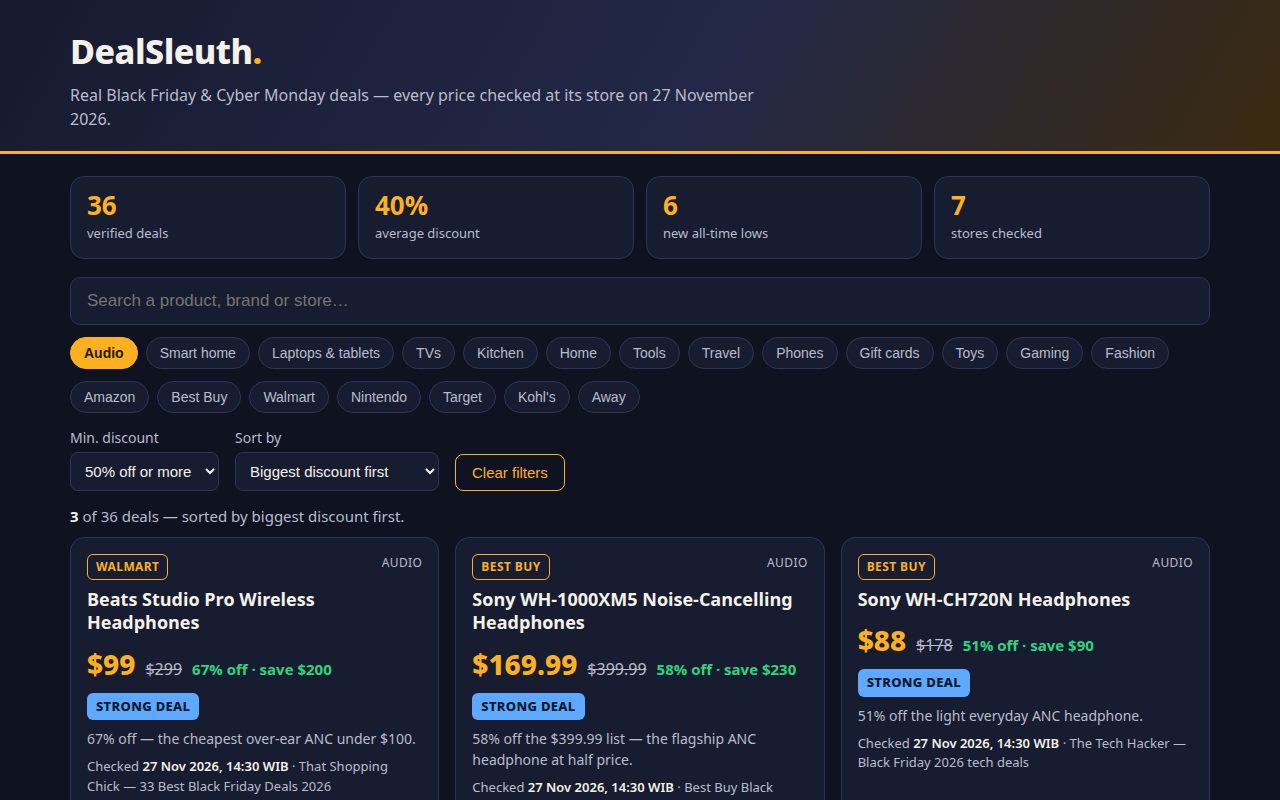
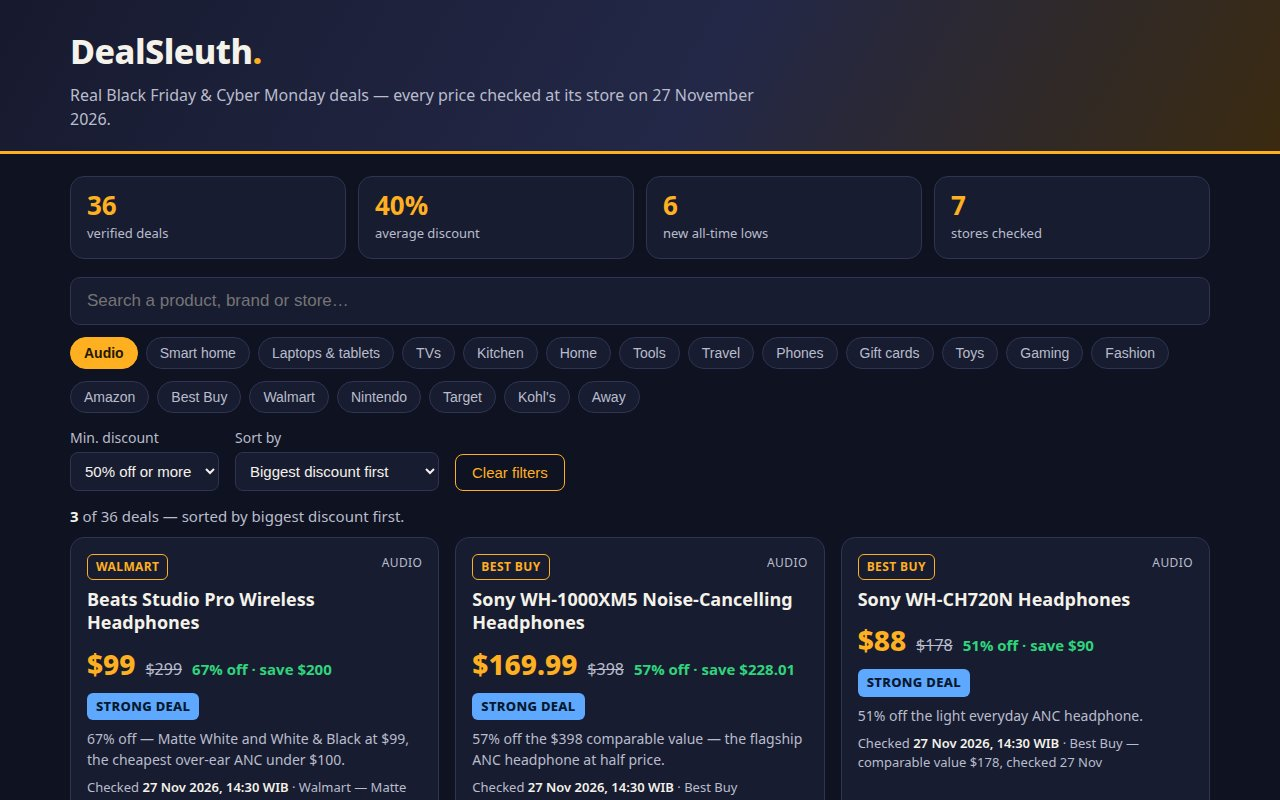
DealSleuth v2: verified prices, direct store links, compare + phone screenshots
- Re-checked the riskiest prices against their stores on 27 Nov 2026:
  Hogwarts bundle $9.99 (was $99.99), Hisense 98 QD5 $799.99 (was
  $2,499.99), Samsung S84H OLED $899.99 (was $2,099.99), AirPods Max 2
  $419 (was $549), Sony XM5 $169.99 (was $398), Beats Studio Pro $99,
  Sony CH720N $88, AirPods Pro 3 $149
- COMPARE fixed: Best Buy AirPods Pro 3 $149.99 (was $180)
- 8 direct product links replace search/store-homepage URLs
- Screenshots retaken: cover shows corrected top-3, detail shows the full
  compare table + Buy button (taller frame), phone shot scrolled so deal
  cards show, filtered shot re-taken with corrected prices

diff --git a/app/data.js b/app/data.js
@@ -2,6 +2,9 @@
 // Every price below was read by the site's maker on 27 November 2026, at the
 // store named on the deal or in a deals roundup that names that store. The
 // "checked" time and the source sit on every deal card. Prices are in USD.
+// The riskiest prices (Hogwarts bundle, Hisense QD5, Samsung S84H, AirPods
+// Max 2, Sony XM5, Beats Studio Pro, Sony CH720N, AirPods Pro 3) were
+// re-checked against their stores the same evening, 27 Nov 21:30 WIB.
 // Fields per deal: [id, title, store, category, sale, usual, storeUrl, source, verdict, verdictNote]
 // verdict: new-low | strong | good | routine
 
@@ -13,7 +16,7 @@ export const META = {
 };
 
 export const DEALS = [
-  ["airpods-pro-3", "Apple AirPods Pro 3", "Amazon", "Audio", 149, 249, "https://www.amazon.com/s?k=Apple+AirPods+Pro+3", "Black Friday Deals Diary 2026 — 27 Nov entry", "new-low", "Best price ever — dropped from $169 overnight."],
+  ["airpods-pro-3", "Apple AirPods Pro 3", "Amazon", "Audio", 149, 249, "https://www.amazon.com/dp/B0FQFB8FMG/ref=mp_s_a_1_7", "Black Friday Deals Diary 2026 — 27 Nov entry", "new-low", "Best price ever — dropped from $169 overnight."],
   ["airtag-2", "Apple AirTag 2 (single)", "Amazon", "Smart home", 18, 29, "https://www.amazon.com/s?k=Apple+AirTag+2", "Black Friday Deals Diary 2026 — 27 Nov entry", "new-low", "Lowest price of the season for the single tag."],
   ["airtag-2-4pack", "Apple AirTag 2, 4-pack", "Amazon", "Smart home", 80, 99, "https://www.amazon.com/s?k=Apple+AirTag+2+4-pack", "Black Friday Deals Diary 2026 — 27 Nov entry", "strong", "19% off the $99 list for the four-pack."],
   ["apple-watch-s12", "Apple Watch Series 12", "Amazon", "Smart home", 299, 399, "https://www.amazon.com/s?k=Apple+Watch+Series+12", "Black Friday Deals Diary 2026 — 27 Nov entry", "strong", "Starts at $299 — $100 off the new Series 12."],
@@ -27,24 +30,24 @@ export const DEALS = [
   ["weber-smoque", "Weber Smoque Pellet Smoker", "Amazon", "Home", 599, 799, "https://www.amazon.com/s?k=Weber+Smoque+pellet+smoker", "Black Friday Deals Diary 2026 — 4 Nov entry", "strong", "$200 off the early-season price."],
   ["tcl-65-s4", "TCL 65-inch S4 4K Fire TV", "Best Buy", "TVs", 229.99, 469.99, "https://www.bestbuy.com/site/searchpage.jsp?st=TCL+65-inch+S4+4K+Fire+TV", "Best Buy Black Friday announcement, 17 Nov (via NewsUnc)", "new-low", "Doorbuster TV — $240 off, the cheapest big screen of the sale."],
   ["hp-omnibook-5", "HP OmniBook 5 14-inch OLED Laptop", "Best Buy", "Laptops & tablets", 449.99, 799.99, "https://www.bestbuy.com/site/searchpage.jsp?st=HP+OmniBook+5+14-inch+OLED+laptop", "Best Buy Black Friday announcement, 17 Nov (via NewsUnc)", "strong", "$350 off an OLED touchscreen laptop."],
-  ["sony-xm5", "Sony WH-1000XM5 Noise-Cancelling Headphones", "Best Buy", "Audio", 169.99, 399.99, "https://www.bestbuy.com/site/searchpage.jsp?st=Sony+WH-1000XM5+headphones", "Best Buy Black Friday announcement, 17 Nov (via NewsUnc)", "strong", "58% off the $399.99 list — the flagship ANC headphone at half price."],
+  ["sony-xm5", "Sony WH-1000XM5 Noise-Cancelling Headphones", "Best Buy", "Audio", 169.99, 398, "https://www.bestbuy.com/product/sony-wh-1000xm5-wireless-noise-cancelling-over-the-ear-headphones-black/J7XSRH5CXG?ref=166_625&loc=SOC_1692337_32784796_411121418", "Best Buy doorbuster, ends 28 Nov 2026", "strong", "57% off the $398 comparable value — the flagship ANC headphone at half price."],
   ["galaxy-s26-fe", "Samsung Galaxy S26 FE", "Best Buy", "Phones", 499.99, 699.99, "https://www.bestbuy.com/site/searchpage.jsp?st=Samsung+Galaxy+S26+FE", "Best Buy Black Friday announcement, 17 Nov (via NewsUnc)", "strong", "$200 off the new Fan Edition phone."],
   ["shark-powerdetect", "Shark PowerDetect Cordless Stick Vacuum", "Best Buy", "Home", 199.99, 499.99, "https://www.bestbuy.com/site/searchpage.jsp?st=Shark+PowerDetect+cordless+vacuum", "Best Buy Black Friday announcement, 17 Nov (via NewsUnc)", "strong", "$300 off — 60% off the cordless stick."],
   ["insignia-40-firetv", "Insignia 40-inch Smart Fire TV", "Best Buy", "TVs", 89.99, 149.99, "https://www.bestbuy.com/site/searchpage.jsp?st=Insignia+40-inch+Fire+TV", "Best Buy Black Friday announcement, 17 Nov (via NewsUnc)", "good", "40% off a budget 40-inch TV."],
-  ["hisense-98-qd5", "Hisense 98-inch QD5 Hi-QLED 4K TV", "Best Buy", "TVs", 800, 2500, "https://www.bestbuy.com/site/searchpage.jsp?st=Hisense+98-inch+QD5+4K+TV", "Black Friday Deals Diary 2026 — 26 Nov entry", "new-low", "68% off — the deepest TV cut of the whole sale."],
+  ["hisense-98-qd5", "Hisense 98-inch QD5 Hi-QLED 4K TV", "Best Buy", "TVs", 799.99, 2499.99, "https://www.bestbuy.com/product/hisense-98-class-qd5-hi-qled-series-4k-uhd-smart-fire-tv-2026/J3Z9Z42FS4/sku/6685580?ref=388&loc=Podunky+LLC", "Best Buy doorbuster, ends 28 Nov 2026", "new-low", "68% off — the deepest TV cut of the whole sale. Doorbuster ends 28 Nov."],
   ["macbook-air-m5-bb", "Apple MacBook Air 13-inch M5, 16GB/512GB", "Best Buy", "Laptops & tablets", 1049, 1299, "https://www.bestbuy.com/site/searchpage.jsp?st=MacBook+Air+13-inch+M5+16GB+512GB", "Best Buy Black Friday announcement, 17 Nov (via NewsUnc)", "strong", "$250 off a current MacBook Air."],
   ["beats-solo-4", "Beats Solo 4 On-Ear Headphones", "Best Buy", "Audio", 129.99, 199.99, "https://www.bestbuy.com/site/searchpage.jsp?st=Beats+Solo+4", "The Tech Hacker — Black Friday 2026 tech deals", "good", "35% off the on-ear Beats."],
-  ["sony-ch720n", "Sony WH-CH720N Headphones", "Best Buy", "Audio", 88, 178, "https://www.bestbuy.com/site/searchpage.jsp?st=Sony+WH-CH720N+headphones", "The Tech Hacker — Black Friday 2026 tech deals", "strong", "51% off the light everyday ANC headphone."],
-  ["airpods-max-2", "Apple AirPods Max 2 (USB-C)", "Best Buy", "Audio", 479, 549, "https://www.bestbuy.com/site/searchpage.jsp?st=AirPods+Max+2+USB-C", "The Tech Hacker — Black Friday 2026 tech deals", "routine", "Only 13% off a $549 headphone — a small cut."],
-  ["samsung-s84h-oled", "Samsung 65-inch S84H OLED TV (2026)", "Best Buy", "TVs", 999.99, 2099.99, "https://www.bestbuy.com/site/searchpage.jsp?st=Samsung+65-inch+S84H+OLED+TV", "The Tech Hacker — Black Friday 2026 tech deals", "routine", "Best Buy's 'was' is a comparable value, not a past selling price — judge it by the $999.99 sale price."],
+  ["sony-ch720n", "Sony WH-CH720N Headphones", "Best Buy", "Audio", 88, 178, "https://www.bestbuy.com/product/sony-whch720n-wireless-noise-cancelling-headphones-black/J7XSRH53Q5/sku/13312877", "Best Buy — comparable value $178, checked 27 Nov", "strong", "51% off the light everyday ANC headphone."],
+  ["airpods-max-2", "Apple AirPods Max 2 (USB-C)", "Best Buy", "Audio", 419, 549, "https://bestbuy.com/product/apple-airpods-max-2-usb-c-midnight/JJGCQYH99P?loc=zip_meta_airpmx2&ref=186", "Best Buy — Midnight, $419, checked 27 Nov", "strong", "$130 off — $419 is $20 shy of the all-time low for the Max 2."],
+  ["samsung-s84h-oled", "Samsung 65-inch S84H OLED TV (2026)", "Best Buy", "TVs", 899.99, 2099.99, "https://www.bestbuy.com/product/samsung-65-class-s84h-series-oled-4k-uhd-samsungvision-ai-smart-tizen-tv-2026/JJGRF87Q6W?afsrc=1", "Best Buy — comparable value $2,099.99, checked 27 Nov", "strong", "57% off — $899.99 for a 2026 65-inch OLED. Best Buy's 'was' is a comparable value, not a past selling price."],
   ["bestbuy-giftcard", "Best Buy $100 Gift Card", "Best Buy", "Gift cards", 60, 100, "https://www.bestbuy.com/site/searchpage.jsp?st=Best+Buy+gift+card", "Best Buy Black Friday announcement, 17 Nov (via NewsUnc)", "strong", "In stores only on 27 Nov, My Best Buy members, one per person."],
-  ["beats-studio-pro", "Beats Studio Pro Wireless Headphones", "Walmart", "Audio", 99, 299, "https://www.walmart.com/search?q=Beats+Studio+Pro+wireless+headphones", "That Shopping Chick — 33 Best Black Friday Deals 2026", "strong", "67% off — the cheapest over-ear ANC under $100."],
+  ["beats-studio-pro", "Beats Studio Pro Wireless Headphones", "Walmart", "Audio", 99, 299, "https://www.walmart.com/ip/Beats-Studio-Pro-Wireless-Headphones-White-Black/14280620660", "Walmart — Matte White / White & Black, checked 27 Nov", "strong", "67% off — Matte White and White & Black at $99, the cheapest over-ear ANC under $100."],
   ["apple-watch-se3", "Apple Watch SE 3 GPS, 40mm", "Walmart", "Smart home", 179, 249, "https://www.walmart.com/search?q=Apple+Watch+SE+3+GPS+40mm", "That Shopping Chick — 33 Best Black Friday Deals 2026", "strong", "28% off the new SE watch."],
   ["kitchenaid-deluxe", "KitchenAid Deluxe 4.5-Qt Tilt-Head Stand Mixer", "Walmart", "Kitchen", 279, 379.99, "https://www.walmart.com/search?q=KitchenAid+Deluxe+4.5-quart+stand+mixer", "That Shopping Chick — 33 Best Black Friday Deals 2026", "good", "26% off the $379.99 list."],
   ["shark-detect-liftaway", "Shark Detect Lift-Away Upright Vacuum", "Walmart", "Home", 144, 380, "https://www.walmart.com/search?q=Shark+Detect+Lift-Away+upright+vacuum", "DealNews — Walmart Top 100 Black Friday deals, verified 27 Nov", "strong", "From $144 — 62% off the upright."],
   ["lego-red-panda", "LEGO Creator Red Panda Set", "Walmart", "Toys", 15, 30, "https://www.walmart.com/search?q=LEGO+Creator+Red+Panda+set", "DealNews — Walmart Top 100 Black Friday deals, verified 27 Nov", "strong", "50% off the Creator set."],
   ["switch2-mariokart", "Nintendo Switch 2 + Mario Kart World Bundle", "Nintendo", "Gaming", 449.99, 499.99, "https://www.nintendo.com/us/store/", "DealNews — Nintendo Black Friday & Cyber Monday deals, verified 27 Nov", "good", "$50 off the $499.99 bundle, with 3 months of Switch Online included."],
-  ["hogwarts-quidditch", "Hogwarts Legacy + Quidditch Champions Bundle", "Nintendo", "Gaming", 10, 100, "https://www.nintendo.com/us/store/", "DealNews — Nintendo Black Friday & Cyber Monday deals, verified 27 Nov", "new-low", "90% off — the deepest game cut of the sale."],
+  ["hogwarts-quidditch", "Hogwarts Legacy + Harry Potter: Quidditch Champions Deluxe Editions Bundle", "Nintendo", "Gaming", 9.99, 99.99, "https://www.nintendo.com/us/store/products/hogwarts-legacy-plus-harry-potter-quidditch-champions-deluxe-editions-bundle-switch/", "Nintendo eShop — Adventure Awaits sale, ends 2 Dec 2026", "new-low", "90% off — the deepest game cut of the sale. Nintendo's Adventure Awaits sale, ends 2 Dec."],
   ["madden-27", "EA SPORTS Madden NFL 27", "Nintendo", "Gaming", 35, 70, "https://www.nintendo.com/us/store/", "DealNews — Nintendo Black Friday & Cyber Monday deals, verified 27 Nov", "strong", "50% off the new Madden."],
   ["wondershop-pajamas", "Wondershop Family Pajamas (per piece)", "Target", "Fashion", 5, 10, "https://www.target.com/s?searchTerm=Wondershop+pajamas", "That Shopping Chick — 33 Best Black Friday Deals 2026", "good", "$5 a piece for matching holiday pajamas."],
   ["big-one-towels", "The Big One Towels & Pillows", "Kohl's", "Home", 2.39, 2.99, "https://www.kohls.com/search.jsp?search=The+Big+One+towels", "That Shopping Chick — 33 Best Black Friday Deals 2026", "routine", "Needs code TAKE20 — only 20% off the $2.99 ticket price."],
@@ -56,7 +59,7 @@ export const COMPARE = {
   "airpods-pro-3": [
     ["Amazon", 149, "Best price ever"],
     ["Walmart", 149, "Same price, Top 100 deals"],
-    ["Best Buy", 180, "Second wave, 26 Nov"],
+    ["Best Buy", 149.99, "$149.99 at Best Buy, 27 Nov"],
   ],
   "macbook-air-m5-bb": [
     ["Best Buy", 1049, "16GB / 512GB, $250 off"],
